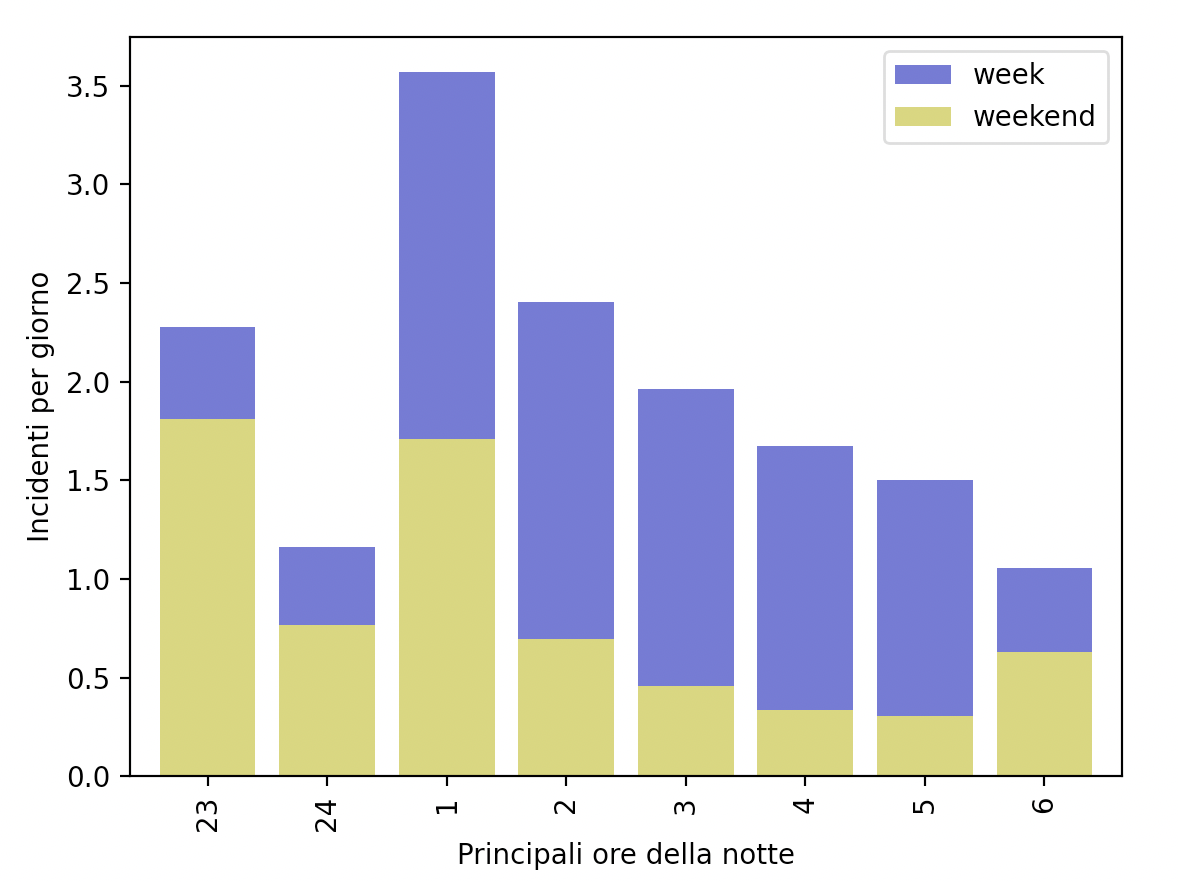
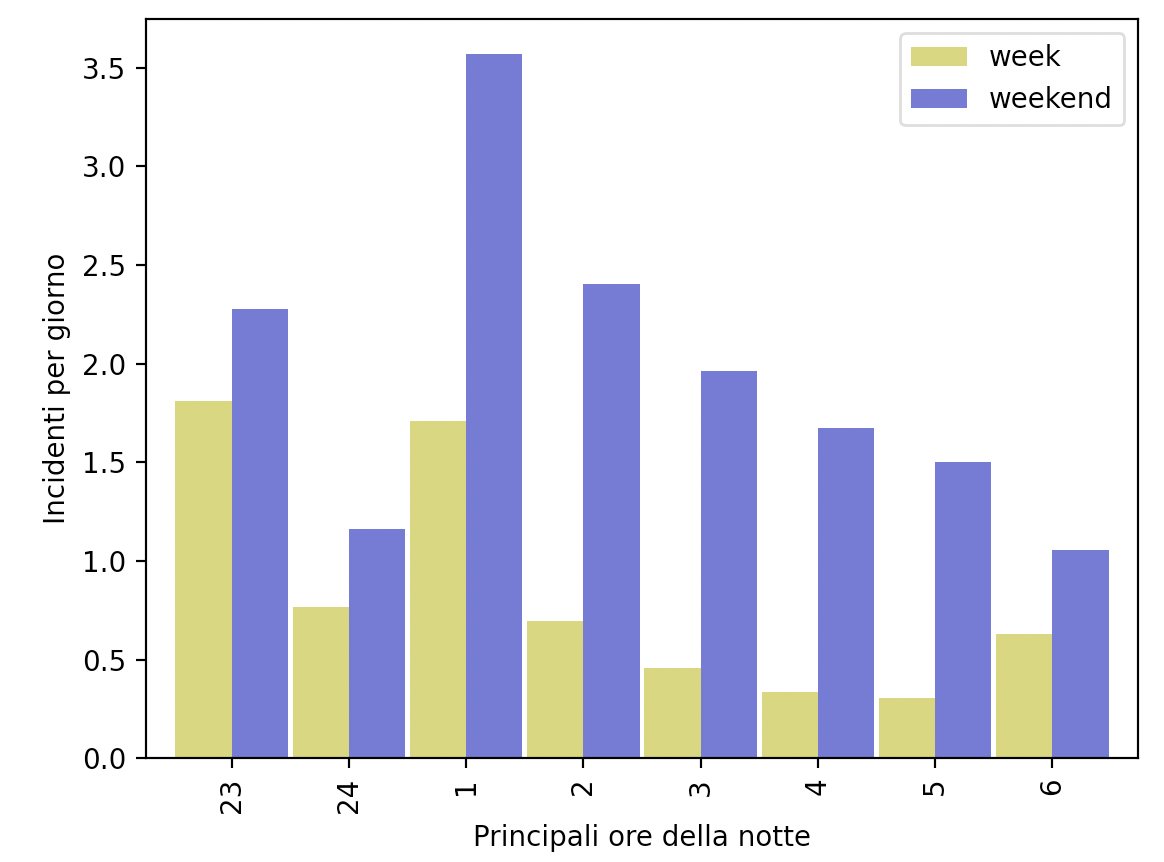
modificato grafo di traffico e incidenti

Changed region(s): [[0.0, 0.0302, 0.9897, 0.9954], [0.0619, 0.181, 0.1237, 0.2413]]

diff --git a/tesi/Tesi.tex b/tesi/Tesi.tex
@@ -984,12 +984,12 @@ Per quanto un dataset contenente questi dati non sia stato trovato,
 in quanto a partire dal 2011, è disponibile il numero degli accessi all'area C.
 
 \begin{figure}
-    \includegraphics[width=\linewidth]{../src/area_c/incidenti_traffico_ora.png}
-    \caption{Incidenti e traffico a Milano}
-    \label{fig:incidenti-traffico-ora}
+    \includegraphics[width=\linewidth]{../src/area_c/rapporto_incidenti_traffico.png}
+    \caption{Rapporto tra incidenti e traffico per orario a Milano}
+    \label{fig:rapporto-incidenti-traffico}
 \end{figure}
 
-L'immagine \ref{fig:incidenti-traffico-ora} contiene, a partire dall'alto, 
+L'immagine \ref{fig:rapporto-incidenti-traffico} contiene, a partire dall'alto, 
 la percentuale traffico in area C a una determinata ora, il numero di incidenti a Milano, 
 e infine il numero di incidenti a Milano, pesati in base al traffico.\\
 Gli ultimi due grafi sono estremamente simili, ciò è dovuto al fatto che il volume di traffico e 
@@ -997,6 +997,7 @@ il volume di incidenti siano fattori altamente correlati, il che comporta che no
 situazioni in cui il numero di incidenti sia alto in orari con poco traffico.\\
 
 \begin{lstlisting}
+    # eseguito con dati del 2016
     accessi_area_c_per_ora = pd.Series()
     for f in data['hour'].unique():
         accessi_area_c_per_ora = accessi_area_c_per_ora.append(
@@ -1009,19 +1010,20 @@ situazioni in cui il numero di incidenti sia alto in orari con poco traffico.\\
     correlazione = accessi_area_c_per_ora.corr(incidenti_per_ora)
 \end{lstlisting}
 
-Correlazione tra traffico in area C a Milano e incidenti per orario è $0.837$
+Correlazione tra traffico in area C a Milano e incidenti per orario è $0.877$
 
 \todo{lelepado: La correlazione è stata realizzata con i valori cumulati delle ore, 
 non con il campione, perchè gli accessi in area C sono già parzialmente cumulati, va bene?}
 
 %\clearpage
-\subsection{Correlazione tra incidentalità e orari notturni}
+\subsection{Incidentalità in orari notturni}
 
 Come individuato dal primo grafo \ref{fig:week-weekend}, durante le 
-ore notturne si ha la tendenza opposta.
-Nella figura \ref{fig:ore-notte}, \dots
-
-\todo{finire correlazione incidenti e orari notturni}
+ore notturne si ha il comportamento di incidenti tra settimana lavorativa e weekend opposta.
+Nella figura \ref{fig:ore-notte}, sono raffigurate le principali ore della notte, divise tra 
+settimana lavorativa e weekend.
+Chiaramente, durante il weekend si hanno un maggior numero di incidenti 
+negli orari serali e notturni.
 
 \begin{figure}
     \includegraphics[width=\linewidth]{../src/incidenti/incidenti_senza_coords/ore_punta/ore_notte.png}
@@ -1029,7 +1031,7 @@ Nella figura \ref{fig:ore-notte}, \dots
     \label{fig:ore-notte}
 \end{figure}
 
-%...
+\todo{confrontare con traffico serale in area c?}
 
 %\clearpage
 \subsection{Quanto influiscono le vacanze estive sull'incidentalità?}

diff --git a/src/area_c/orari_2013.py b/src/area_c/orari_2013.py
@@ -3,7 +3,7 @@ import pandas as pd
 import matplotlib.pyplot as plt
 import numpy as np
 
-path = "dataset/area_c/orari_2013.csv"
+path = "dataset/area_c/orari_2016.csv"
 
 data = pd.read_csv(path, sep=';')
 
@@ -14,57 +14,46 @@ for f in data['hour'].unique():
         ignore_index=True
         )
 
-# ora_media = ora.mean()
+ora_media = ora.mean()
 
-# accessi_area_c_per_ora = ora / ora.sum()
-# accessi_area_c_per_ora.index = range(1,25)
-# perc_ora_inc = ora / ora_media *100 -100
+#accessi_area_c_per_ora = ora / ora.sum()
+accessi_area_c_per_ora =  ora.drop(index=24)
 
-# print(accessi_area_c_per_ora)
-# print(perc_ora_inc)
+path = "dataset/incidenti/incidenti_2016.txt"
 
-# plt.subplot(2,1,1)
-# plt.plot(accessi_area_c_per_ora)
-# # plt.subplot(2,1,2)
-# # plt.plot(perc_ora_inc)
-# plt.show()
+incidenti = pd.read_csv(path, sep="\t", encoding='latin1')
+incidenti = incidenti[incidenti['Ora'] != 25]
 
+incidenti_per_ora = incidenti[incidenti['provincia'] == 15]['Ora'].value_counts().sort_index()
 
-path = "dataset/incidenti/incidenti_2010.txt"
-
-incidenti = pd.read_csv(path, sep="\t")
-incidenti = incidenti[incidenti['ora'] != 25]
-
-incidenti_per_ora = incidenti[incidenti['provincia'] == 15]['ora']#.value_counts().sort_index()
-
-
+incidenti_per_ora.index = range(0,24)
+#incidenti_per_ora = incidenti_per_ora / incidenti_per_ora.sum()
 #incidenti_per_ora_norm = incidenti_per_ora * (1 - accessi_area_c_per_ora)
-#incidenti_per_ora_norm = incidenti_per_ora / ora
-
-#print(accessi_area_c_per_ora.corr(incidenti_per_ora))
-
-print(ora.corr(incidenti_per_ora.value_counts()))
-
 
 # plt.subplot(3,1,1)
-# plt.plot(ora, color='#ddbd08')
-# plt.fill_between(ora.index, ora, color='#ddbd08')
-# plt.xticks(range(1,25))
+# plt.plot(accessi_area_c_per_ora, color='#ddbd08')
+# plt.fill_between(accessi_area_c_per_ora.index, accessi_area_c_per_ora, color='#ddbd08')
+# plt.xticks(range(0,24))
 # plt.ylabel("Percentuale")
 # plt.title("Percentuale di traffico totale")
 # plt.tight_layout()
+
 # plt.subplot(3,1,2)
 # plt.plot(incidenti_per_ora, color='#dd5308', label="Incidenti per orario")
 # plt.fill_between(incidenti_per_ora.index, incidenti_per_ora, color='#dd5308')
-# plt.subplot(3,1,3)
+# plt.xticks(range(0,24))
+
+# # plt.subplot(3,1,3)
 # plt.plot(incidenti_per_ora_norm, color='#93dd08', label="Incidenti normalizzati")
 # plt.fill_between(incidenti_per_ora_norm.index, incidenti_per_ora_norm, color='#93dd08')
 # plt.title("Numero di incidenti a Milano")
 # plt.ylabel("Numero incidenti")
-# plt.xticks(range(1,25))
+# plt.xticks(range(0,24))
 # plt.tight_layout()
 # plt.show()
 
-
 # Non cambia molto, prova a normalizzarlo con percentuale di 
 # incremento rispetto alla media
+
+# Calcolo correlazione: 
+# print(ora.corr(incidenti_per_ora.value_counts()))

diff --git a/src/area_c/rapporto_incidenti_orario.py b/src/area_c/rapporto_incidenti_orario.py
@@ -1,0 +1,46 @@
+
+import pandas as pd
+import matplotlib.pyplot as plt
+import numpy as np
+
+path = "dataset/area_c/orari_2016.csv"
+
+data = pd.read_csv(path, sep=';')
+
+ora = pd.Series()
+for f in data['hour'].unique():
+    ora = ora.append(
+        pd.Series(data[data['hour'] == f]['totale'].sum()), 
+        ignore_index=True
+        )
+
+path = "dataset/incidenti/incidenti_2016.txt"
+
+incidenti = pd.read_csv(path, sep="\t", encoding='latin1')
+incidenti = incidenti[incidenti['Ora'] != 25]
+
+incidenti_per_ora = incidenti[incidenti['provincia'] == 15]['Ora'].value_counts().sort_index()
+
+incidenti_per_ora.index = range(0,24)
+
+ora_media = ora.mean()
+
+accessi_area_c_per_ora =  ora.drop(index=24)
+
+plt.subplot(2,1,1)
+plt.fill_between(accessi_area_c_per_ora.index, accessi_area_c_per_ora, color='#ddbd08')
+plt.xticks(range(0,24))
+plt.ylabel("Percentuale")
+plt.title("Traffico in Area C")
+plt.tight_layout()
+
+rapp_inc_traff = incidenti_per_ora / accessi_area_c_per_ora
+
+plt.subplot(2,1,2)
+plt.fill_between(rapp_inc_traff.index, rapp_inc_traff, color='#93dd08')
+plt.ylabel("Rapporto tra incidenti e traffico")
+plt.title("Pericolosità dell'orario")
+plt.xticks(range(0,24))
+plt.tight_layout()
+
+plt.show()

diff --git a/src/incidenti/incidenti_senza_coords/ore_punta/ore_notte.py b/src/incidenti/incidenti_senza_coords/ore_punta/ore_notte.py
@@ -6,7 +6,7 @@ import matplotlib.pyplot as plt
 
 path = "dataset/incidenti/incidenti_2010.txt"
 
-bar_width = 0.8
+bar_width = 0.96
 
 data = pd.read_csv(path, sep="\t")
 data = data[data['ora'] != 25]
@@ -21,10 +21,13 @@ ora_notte_weekend = ora_notte_weekend.reindex([23,24,1,2,3,4,5,6])
 ora_notte_week /= 5 * 52 
 ora_notte_weekend /= 2 * 52
 
-# TODO: separa le barre e prova fill a retina
+pd.DataFrame(
+    [ora_notte_week, ora_notte_weekend], 
+    ['Week', 'Weekend']
+).transpose().plot.bar(color=['#d1d162', '#6262d1'], width=bar_width)
 
-ora_notte_weekend.plot.bar(color='#6262d1', width=bar_width)
-ora_notte_week.plot.bar(color='#d1d162', width=bar_width)
+# ora_notte_weekend.plot.bar(color='#', width=bar_width)
+# ora_notte_week.plot.bar(color='#', width=bar_width)
 
 plt.xlabel("Principali ore della notte")
 plt.ylabel("Incidenti per giorno")
